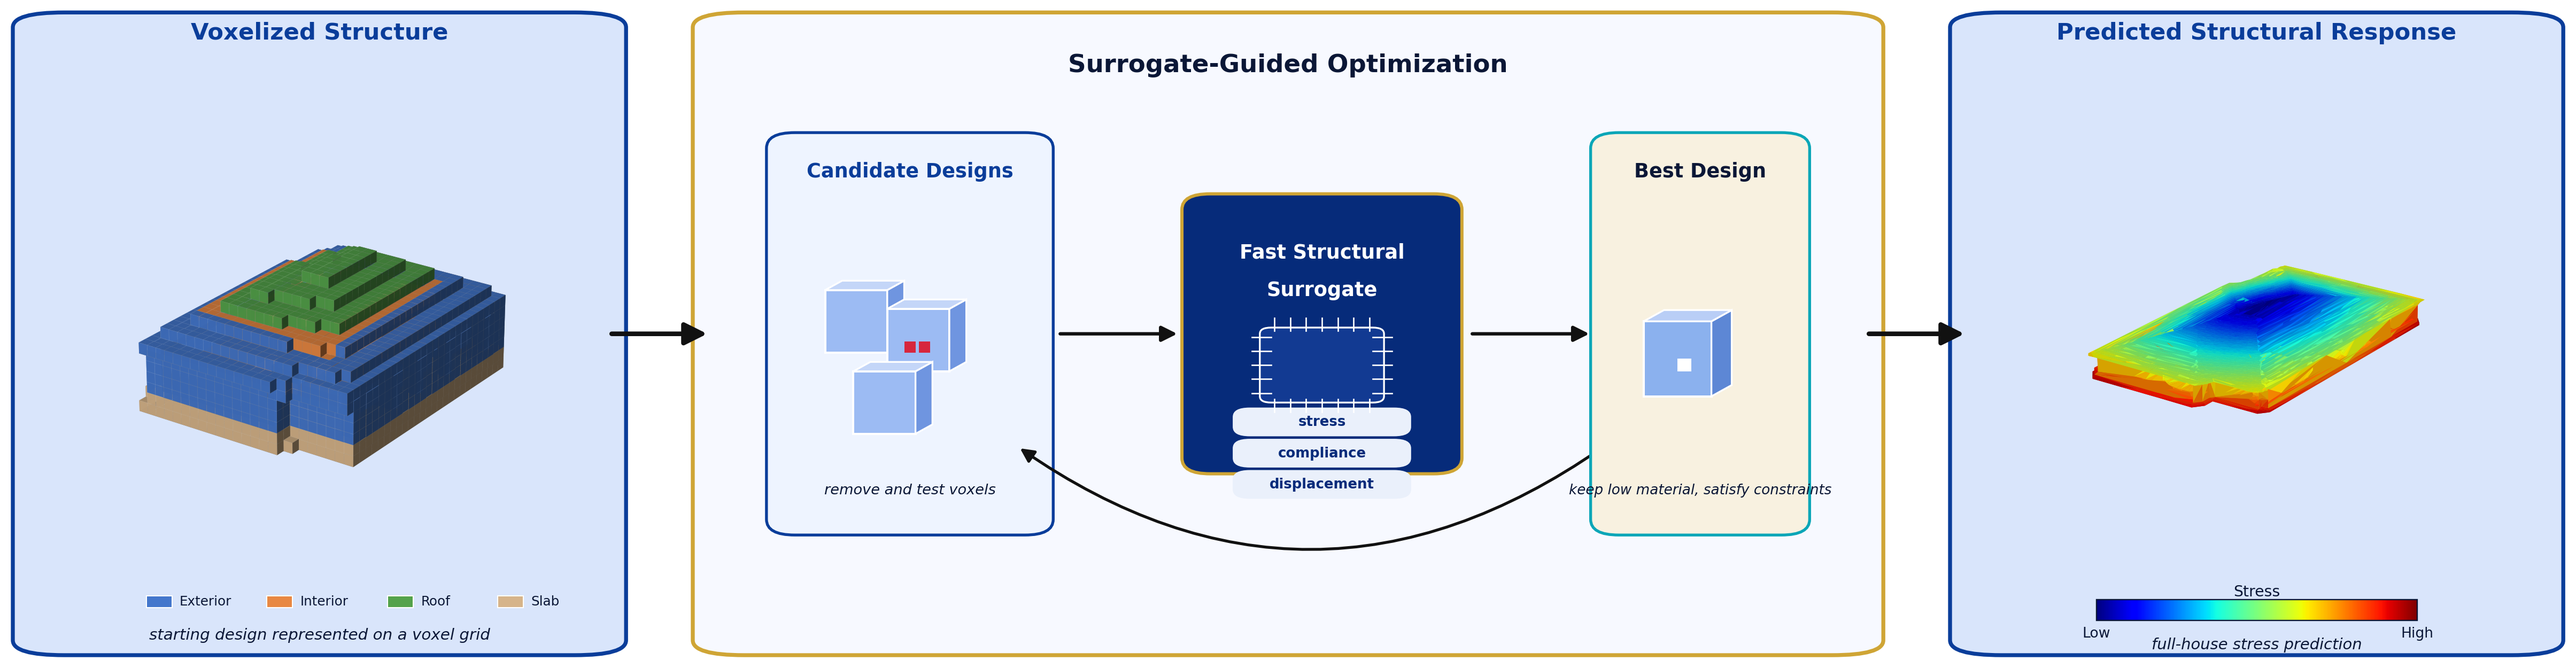
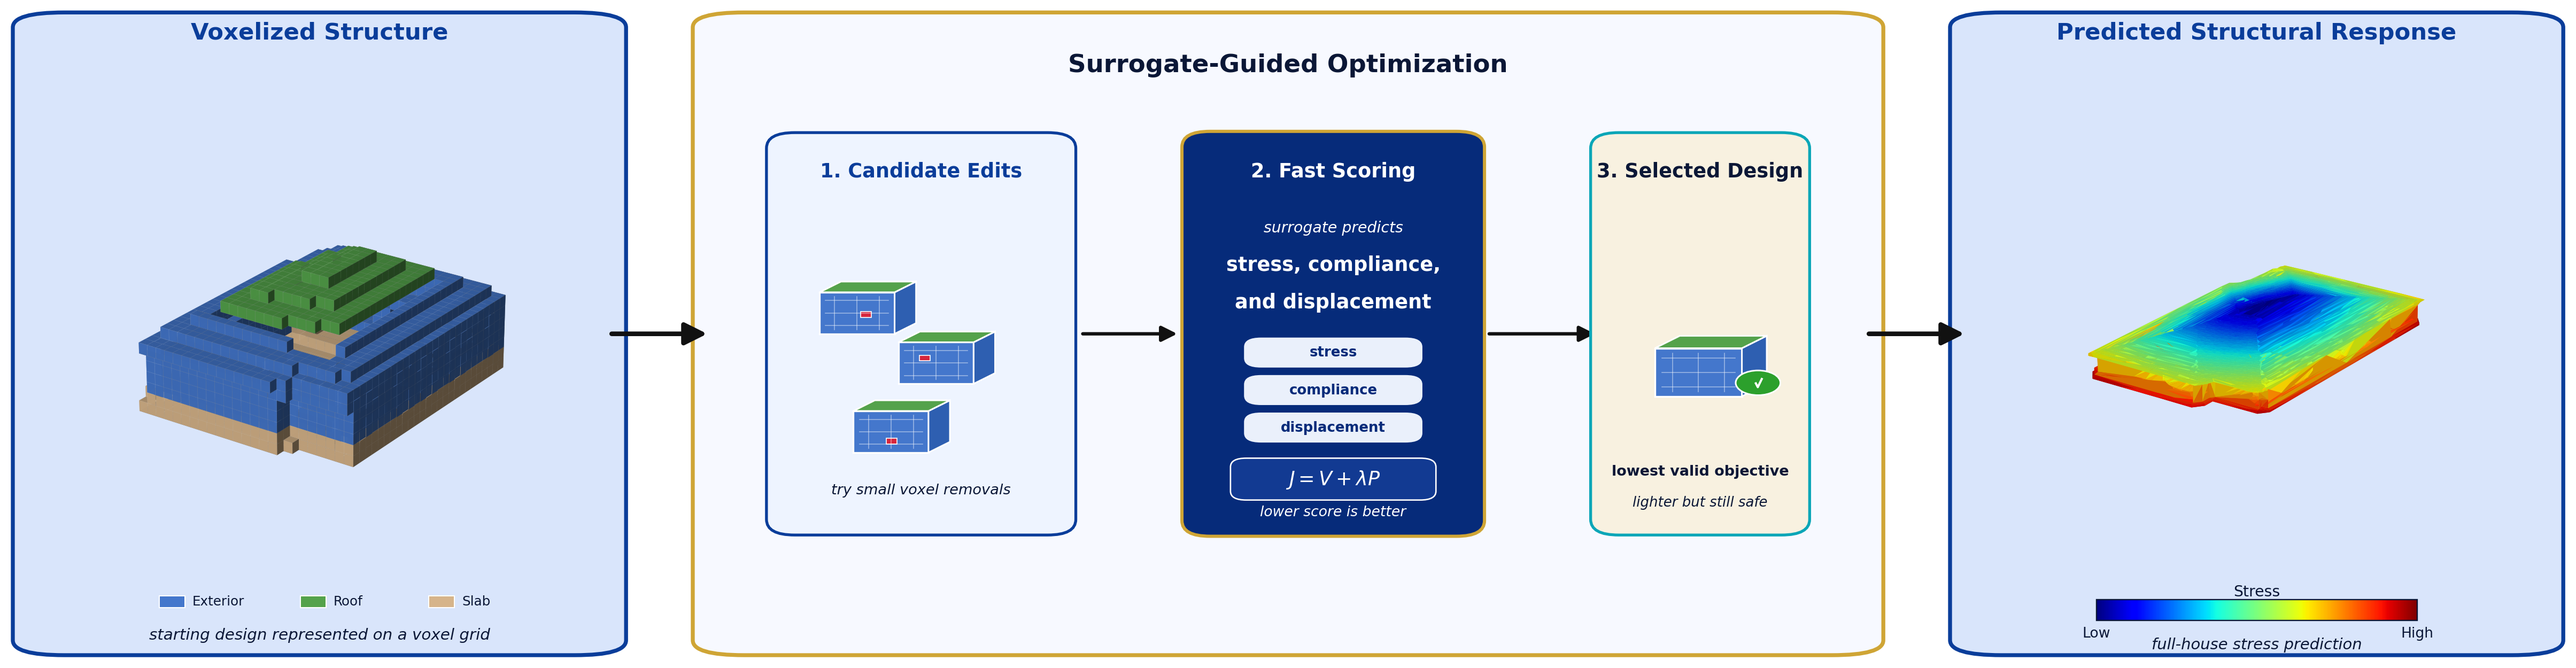
problem framing: clearer candidate scoring selection diagram

diff --git a/generate_problem_framing.py b/generate_problem_framing.py
@@ -51,6 +51,23 @@ def render_voxelized_house(ax3d, mesh_path, pitch_div=28, elev=24, azim=-55):
     outer_mask = filled & ((x < 0.15) | (x > 0.85) | (y < 0.15) | (y > 0.85))
     interior_mask = filled & ~(roof_mask | slab_mask | outer_mask)
 
+    exposed = np.zeros_like(filled, dtype=bool)
+    exposed[0, :, :] = filled[0, :, :]
+    exposed[-1, :, :] = filled[-1, :, :]
+    exposed[:, 0, :] = filled[:, 0, :]
+    exposed[:, -1, :] = filled[:, -1, :]
+    exposed[:, :, 0] = filled[:, :, 0]
+    exposed[:, :, -1] = filled[:, :, -1]
+    exposed[1:, :, :] |= filled[1:, :, :] & ~filled[:-1, :, :]
+    exposed[:-1, :, :] |= filled[:-1, :, :] & ~filled[1:, :, :]
+    exposed[:, 1:, :] |= filled[:, 1:, :] & ~filled[:, :-1, :]
+    exposed[:, :-1, :] |= filled[:, :-1, :] & ~filled[:, 1:, :]
+    exposed[:, :, 1:] |= filled[:, :, 1:] & ~filled[:, :, :-1]
+    exposed[:, :, :-1] |= filled[:, :, :-1] & ~filled[:, :, 1:]
+
+    # Avoid seeing interior walls through the shell in the conceptual thumbnail.
+    visible = exposed & ~interior_mask
+
     def apply_color(mask, hex_color, alpha=0.98):
         rgb = mcolors.to_rgb(hex_color)
         facecolors[mask, 0] = rgb[0]
@@ -58,10 +75,10 @@ def render_voxelized_house(ax3d, mesh_path, pitch_div=28, elev=24, azim=-55):
         facecolors[mask, 2] = rgb[2]
         facecolors[mask, 3] = alpha
 
-    apply_color(outer_mask, WALL)
-    apply_color(interior_mask, INTERIOR)
-    apply_color(roof_mask, ROOF)
-    apply_color(slab_mask, SLAB)
+    apply_color(outer_mask & visible, WALL)
+    apply_color(interior_mask & visible, INTERIOR)
+    apply_color(roof_mask & visible, ROOF)
+    apply_color(slab_mask & visible, SLAB)
 
     edgecolors[..., 0] = 1.0
     edgecolors[..., 1] = 1.0
@@ -69,7 +86,7 @@ def render_voxelized_house(ax3d, mesh_path, pitch_div=28, elev=24, azim=-55):
     edgecolors[..., 3] = 0.15
 
     ax3d.voxels(
-        filled,
+        visible,
         facecolors=facecolors,
         edgecolors=edgecolors,
         linewidth=0.20,
@@ -150,20 +167,41 @@ def draw_volume_block(ax, x, y, w, h, dx, dy, face, side, top):
     ))
 
 
-def draw_model_card(ax, x, y, w, h, label):
-    """Draw a clean ensemble-member card."""
-    card = FancyBboxPatch(
-        (x, y), w, h,
-        boxstyle="round,pad=0.006,rounding_size=0.02",
-        facecolor=WHITE, edgecolor=BLUE, linewidth=1.2,
-    )
-    ax.add_patch(card)
-    ax.text(x + w / 2, y + h * 0.78, label,
-            ha="center", va="center", fontsize=7.8, color=BLUE, fontweight="bold")
-    xs = np.linspace(x + w * 0.18, x + w * 0.82, 30)
-    ys = y + h * (0.28 + 0.10 * np.sin(np.linspace(0, 2.8, 30)))
-    ax.plot(xs, ys, color=TEAL, lw=1.5)
-    ax.plot([x + w * 0.18, x + w * 0.82], [y + h * 0.22, y + h * 0.22], color="#D8E2F6", lw=1.0)
+def draw_house_thumbnail(ax, x, y, s=1.0, removed=None, selected=False):
+    """Draw a small house-like voxel thumbnail for conceptual steps."""
+    w = 0.070 * s
+    h = 0.070 * s
+    dx = 0.020 * s
+    dy = 0.018 * s
+
+    # walls
+    ax.add_patch(mpatches.Rectangle((x, y), w, h, facecolor=WALL, edgecolor=WHITE, linewidth=1.0))
+    ax.add_patch(Polygon(
+        [[x + w, y], [x + w + dx, y + dy], [x + w + dx, y + h + dy], [x + w, y + h]],
+        closed=True, facecolor="#2E5FB1", edgecolor=WHITE, linewidth=0.9,
+    ))
+    # roof
+    ax.add_patch(Polygon(
+        [[x, y + h], [x + dx, y + h + dy], [x + w + dx, y + h + dy], [x + w, y + h]],
+        closed=True, facecolor=ROOF, edgecolor=WHITE, linewidth=0.9,
+    ))
+
+    for gx in np.linspace(x + w * 0.20, x + w * 0.80, 3):
+        ax.plot([gx, gx], [y + h * 0.10, y + h * 0.90], color=WHITE, lw=0.5, alpha=0.45)
+    for gy in np.linspace(y + h * 0.20, y + h * 0.80, 3):
+        ax.plot([x + w * 0.08, x + w * 0.92], [gy, gy], color=WHITE, lw=0.5, alpha=0.45)
+
+    if removed:
+        for rx, ry in removed:
+            ax.add_patch(mpatches.Rectangle((x + rx * w, y + ry * h), w * 0.14, h * 0.14,
+                                            facecolor=RED, edgecolor=WHITE, linewidth=0.5))
+
+    if selected:
+        circ = Circle((x + w + dx * 0.65, y + h * 0.28), 0.018 * s,
+                      facecolor="#2CA02C", edgecolor=WHITE, linewidth=0.9)
+        ax.add_patch(circ)
+        ax.plot([x + w + dx * 0.56, x + w + dx * 0.64, x + w + dx * 0.80],
+                [y + h * 0.27, y + h * 0.19, y + h * 0.36], color=WHITE, lw=1.2)
 
 
 def add_card(fig, xywh, facecolor, edgecolor, lw=2.2, radius=0.02, zorder=0):
@@ -220,9 +258,9 @@ fig.text(0.1225, 0.095, "starting design represented on a voxel grid",
          ha="center", va="center", fontsize=8.8, color=DARK, fontstyle="italic")
 
 legend_y = 0.132
-legend_x = [0.055, 0.102, 0.149, 0.192]
-legend_colors = [WALL, INTERIOR, ROOF, SLAB]
-legend_labels = ["Exterior", "Interior", "Roof", "Slab"]
+legend_x = [0.060, 0.115, 0.165]
+legend_colors = [WALL, ROOF, SLAB]
+legend_labels = ["Exterior", "Roof", "Slab"]
 for x0, c0, txt in zip(legend_x, legend_colors, legend_labels):
     fig.add_artist(mpatches.Rectangle((x0, legend_y), 0.010, 0.016,
                                       transform=fig.transFigure, facecolor=c0,
@@ -241,74 +279,68 @@ ax_mid.text(0.50, 0.93, "Surrogate-Guided Optimization",
             ha="center", va="center", fontsize=14, fontweight="bold", color=DARK)
 
 # candidate design mini-grid
-left_cluster = FancyBboxPatch((0.05, 0.19), 0.23, 0.62,
+left_cluster = FancyBboxPatch((0.05, 0.19), 0.25, 0.62,
                               boxstyle="round,pad=0.012,rounding_size=0.025",
                               facecolor="#EEF4FF", edgecolor=BLUE, linewidth=1.6)
 ax_mid.add_patch(left_cluster)
-ax_mid.text(0.165, 0.76, "Candidate Designs",
+ax_mid.text(0.175, 0.76, "1. Candidate Edits",
             ha="center", va="center", fontsize=11.0, fontweight="bold", color=BLUE)
 
-draw_volume_block(ax_mid, 0.090, 0.47, 0.055, 0.10, 0.015, 0.015,
-                  "#9CBBF3", "#6F95E0", "#C4D6F8")
-draw_volume_block(ax_mid, 0.145, 0.44, 0.055, 0.10, 0.015, 0.015,
-                  "#9CBBF3", "#6F95E0", "#C4D6F8")
-draw_volume_block(ax_mid, 0.115, 0.34, 0.055, 0.10, 0.015, 0.015,
-                  "#9CBBF3", "#6F95E0", "#C4D6F8")
-ax_mid.add_patch(mpatches.Rectangle((0.160, 0.47), 0.010, 0.018, facecolor=RED, edgecolor="none"))
-ax_mid.add_patch(mpatches.Rectangle((0.173, 0.47), 0.010, 0.018, facecolor=RED, edgecolor="none"))
-ax_mid.text(0.165, 0.25, "remove and test voxels",
+draw_house_thumbnail(ax_mid, 0.085, 0.50, 0.95, removed=[(0.55, 0.40)])
+draw_house_thumbnail(ax_mid, 0.155, 0.42, 0.95, removed=[(0.28, 0.55)])
+draw_house_thumbnail(ax_mid, 0.115, 0.31, 0.95, removed=[(0.44, 0.20)])
+ax_mid.text(0.175, 0.25, "try small voxel removals",
             ha="center", va="center", fontsize=8.2, color=DARK, fontstyle="italic")
 
 # central surrogate box
-ax_mid.add_patch(FancyArrowPatch((0.295, 0.50), (0.405, 0.50), arrowstyle="-|>",
+ax_mid.add_patch(FancyArrowPatch((0.315, 0.50), (0.405, 0.50), arrowstyle="-|>",
                                  mutation_scale=18, color=BLACK, lw=1.9))
 
-sur_box = FancyBboxPatch((0.42, 0.29), 0.22, 0.42,
+sur_box = FancyBboxPatch((0.42, 0.19), 0.24, 0.62,
                          boxstyle="round,pad=0.014,rounding_size=0.025",
                          facecolor=NAVY, edgecolor=GOLD, linewidth=1.8)
 ax_mid.add_patch(sur_box)
-ax_mid.text(0.53, 0.63, "Fast Structural",
+ax_mid.text(0.54, 0.76, "2. Fast Scoring",
             ha="center", va="center", fontsize=11.0, fontweight="bold", color=WHITE)
-ax_mid.text(0.53, 0.57, "Surrogate",
+ax_mid.text(0.54, 0.67, "surrogate predicts",
+            ha="center", va="center", fontsize=8.5, color=WHITE, fontstyle="italic")
+ax_mid.text(0.54, 0.61, "stress, compliance,",
+            ha="center", va="center", fontsize=11.0, fontweight="bold", color=WHITE)
+ax_mid.text(0.54, 0.55, "and displacement",
             ha="center", va="center", fontsize=11.0, fontweight="bold", color=WHITE)
 
-chip = FancyBboxPatch((0.485, 0.40), 0.09, 0.10,
-                      boxstyle="round,pad=0.01,rounding_size=0.01",
-                      facecolor="#123A92", edgecolor=WHITE, linewidth=1.0)
-ax_mid.add_patch(chip)
-for px in np.linspace(0.488, 0.572, 7):
-    ax_mid.plot([px, px], [0.505, 0.525], color=WHITE, lw=0.8)
-    ax_mid.plot([px, px], [0.375, 0.395], color=WHITE, lw=0.8)
-for py in np.linspace(0.405, 0.495, 5):
-    ax_mid.plot([0.468, 0.485], [py, py], color=WHITE, lw=0.8)
-    ax_mid.plot([0.575, 0.592], [py, py], color=WHITE, lw=0.8)
-
-for y0, txt, fc in [(0.34, "stress", "#EAF0FB"), (0.29, "compliance", "#EAF0FB"), (0.24, "displacement", "#EAF0FB")]:
-    pill = FancyBboxPatch((0.455, y0), 0.15, 0.038,
+for y0, txt, fc in [(0.45, "stress", "#EAF0FB"), (0.39, "compliance", "#EAF0FB"), (0.33, "displacement", "#EAF0FB")]:
+    pill = FancyBboxPatch((0.465, y0), 0.15, 0.040,
                           boxstyle="round,pad=0.004,rounding_size=0.015",
                           facecolor=fc, edgecolor="none")
     ax_mid.add_patch(pill)
-    ax_mid.text(0.53, y0 + 0.019, txt,
+    ax_mid.text(0.54, y0 + 0.020, txt,
                 ha="center", va="center", fontsize=7.8, color=NAVY, fontweight="bold")
 
-# optimization loop and final choice
-ax_mid.add_patch(FancyArrowPatch((0.66, 0.50), (0.77, 0.50), arrowstyle="-|>",
+eq_box = FancyBboxPatch((0.455, 0.24), 0.17, 0.055,
+                        boxstyle="round,pad=0.006,rounding_size=0.014",
+                        facecolor="#123A92", edgecolor=WHITE, linewidth=0.8)
+ax_mid.add_patch(eq_box)
+ax_mid.text(0.54, 0.267, r"$J = V + \lambda P$",
+            ha="center", va="center", fontsize=11.0, color=WHITE, fontweight="bold")
+ax_mid.text(0.54, 0.215, "lower score is better",
+            ha="center", va="center", fontsize=8.0, color=WHITE, fontstyle="italic")
+
+# final choice
+ax_mid.add_patch(FancyArrowPatch((0.675, 0.50), (0.775, 0.50), arrowstyle="-|>",
                                  mutation_scale=18, color=BLACK, lw=1.9))
-ax_mid.add_patch(FancyArrowPatch((0.78, 0.32), (0.26, 0.32), arrowstyle="-|>",
-                                 connectionstyle="arc3,rad=-0.35",
-                                 mutation_scale=16, color=BLACK, lw=1.6))
 
 right_cluster = FancyBboxPatch((0.78, 0.19), 0.17, 0.62,
                                boxstyle="round,pad=0.012,rounding_size=0.025",
                                facecolor="#F8F1E0", edgecolor=TEAL, linewidth=1.6)
 ax_mid.add_patch(right_cluster)
-ax_mid.text(0.865, 0.76, "Best Design",
+ax_mid.text(0.865, 0.76, "3. Selected Design",
             ha="center", va="center", fontsize=11.0, fontweight="bold", color=DARK)
-draw_volume_block(ax_mid, 0.815, 0.40, 0.060, 0.12, 0.018, 0.018,
-                  "#8BB1EE", "#5D87D5", "#B9CEF6")
-ax_mid.add_patch(mpatches.Rectangle((0.845, 0.44), 0.012, 0.020, facecolor=WHITE, edgecolor="none"))
-ax_mid.text(0.865, 0.25, "keep low material, satisfy constraints",
-            ha="center", va="center", fontsize=7.9, color=DARK, fontstyle="italic", wrap=True)
+draw_house_thumbnail(ax_mid, 0.825, 0.40, 1.10, selected=True)
+ax_mid.text(0.865, 0.28, "lowest valid objective",
+            ha="center", va="center", fontsize=8.1, color=DARK, fontweight="bold")
+ax_mid.text(0.865, 0.23, "lighter but still safe",
+            ha="center", va="center", fontsize=7.8, color=DARK, fontstyle="italic")
 
 
 # ── Right: full-house structural response ───────────────────────────────────
